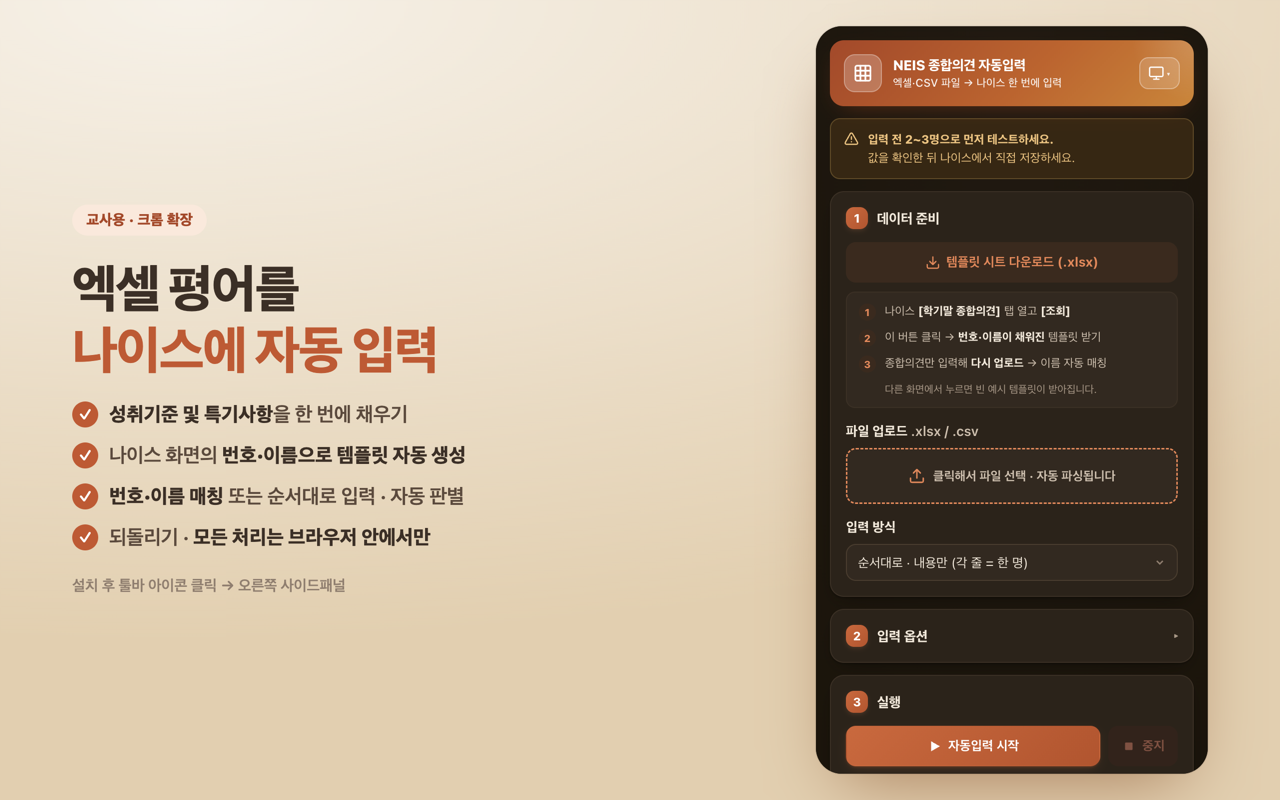
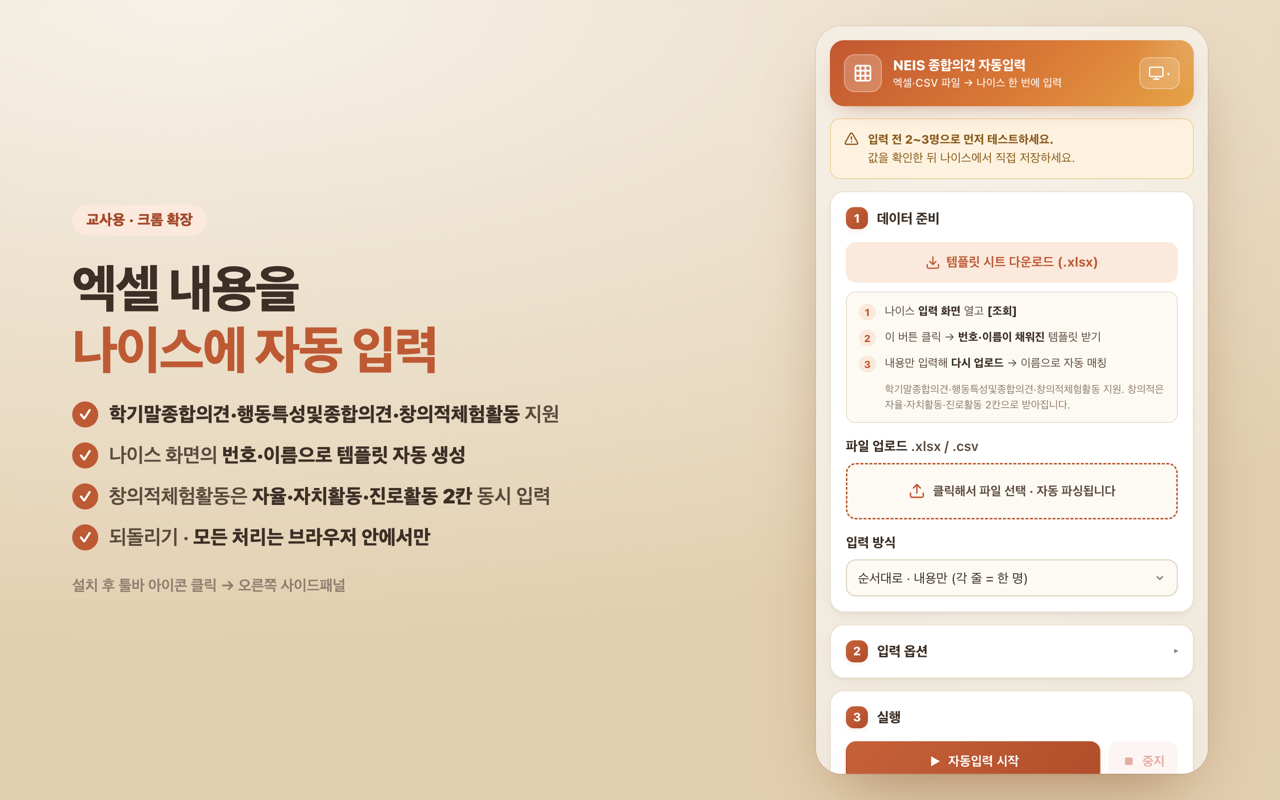
docs: 설명 전면 갱신(지원 화면 3종 명시) + 구글시트 제거 + 예시 스샷 라이트모드
- 지원 화면을 학기말종합의견·행동특성및종합의견·창의적체험활동(학생부자료기록)으로 명시
- '평어'→'내용'으로 일반화, '구글시트'·시트 붙여넣기 문구 전부 제거(엑셀·CSV 파일 업로드)
- 앱 내 안내·매니페스트·스토어 설명·README·개인정보처리방침 일괄 수정
- 스토어 스크린샷/타일을 라이트 모드로 재생성

diff --git a/store/promo-shot.html b/store/promo-shot.html
@@ -22,7 +22,7 @@
         display:flex;align-items:center;justify-content:center;font-size:15px;margin-top:1px}
       .foot{margin-top:26px;font-size:15px;color:#8f7e6f;font-weight:600}
       .panelframe{
-        flex:0 0 392px;height:748px;border-radius:26px;overflow:hidden;background:#201911;
+        flex:0 0 392px;height:748px;border-radius:26px;overflow:hidden;background:#f6f1e8;
         box-shadow:0 30px 70px -24px rgba(120,60,20,.55), 0 0 0 1px rgba(0,0,0,.06);
       }
       .panelframe iframe{width:392px;height:1880px;border:0;transform:translateY(0)}
@@ -32,18 +32,26 @@
     <div class="shot">
       <div class="copy">
         <span class="badge">교사용 · 크롬 확장</span>
-        <h1>엑셀 평어를<br /><span class="hl">나이스에 자동 입력</span></h1>
+        <h1>엑셀 내용을<br /><span class="hl">나이스에 자동 입력</span></h1>
         <ul>
-          <li><span class="chk">✓</span><span><b>성취기준 및 특기사항</b>을 한 번에 채우기</span></li>
+          <li><span class="chk">✓</span><span><b>학기말종합의견·행동특성및종합의견·창의적체험활동</b> 지원</span></li>
           <li><span class="chk">✓</span><span>나이스 화면의 <b>번호·이름으로 템플릿 자동 생성</b></span></li>
-          <li><span class="chk">✓</span><span><b>번호·이름 매칭</b> 또는 순서대로 입력 · 자동 판별</span></li>
+          <li><span class="chk">✓</span><span>창의적체험활동은 <b>자율·자치활동·진로활동 2칸</b> 동시 입력</span></li>
           <li><span class="chk">✓</span><span>되돌리기 · <b>모든 처리는 브라우저 안에서만</b></span></li>
         </ul>
         <div class="foot">설치 후 툴바 아이콘 클릭 → 오른쪽 사이드패널</div>
       </div>
       <div class="panelframe">
-        <iframe src="../dist/neis-autofill/sidepanel.html" scrolling="no"></iframe>
+        <iframe id="pf" src="../dist/neis-autofill/sidepanel.html" scrolling="no"></iframe>
       </div>
     </div>
+    <script>
+      // 프로모션 이미지의 사이드패널을 항상 라이트 모드로 고정
+      document.getElementById("pf").addEventListener("load", function () {
+        try {
+          this.contentDocument.documentElement.setAttribute("data-theme", "light");
+        } catch (e) {}
+      });
+    </script>
   </body>
 </html>

diff --git a/neis-autofill/privacy.html b/neis-autofill/privacy.html
@@ -39,14 +39,14 @@
       <p class="meta">NEIS 종합의견 자동입력 도우미 · 시행일 2026-07-07</p>
 
       <p>
-        본 확장 프로그램은 교사가 엑셀·CSV·구글시트에 작성한 학생 평어(성취기준 및 특기사항,
-        종합의견 등)를 나이스(NEIS) 입력 화면에 자동으로 채워 넣는 도구입니다.
+        본 확장 프로그램은 교사가 엑셀·CSV 파일에 작성한 내용을 나이스(NEIS)의 학기말종합의견·
+        행동특성및종합의견·창의적체험활동 입력 화면에 자동으로 채워 넣는 도구입니다.
       </p>
 
       <h2>1. 수집·전송하는 개인정보 — 없음</h2>
       <p>
         확장은 어떠한 개인정보도 <b>수집·저장·외부 전송하지 않습니다.</b> 사용자가 붙여넣거나
-        업로드한 평어, 나이스 화면에서 읽은 번호·이름은 <b>오직 사용자의 브라우저 안에서만</b>
+        업로드한 내용, 나이스 화면에서 읽은 번호·이름은 <b>오직 사용자의 브라우저 안에서만</b>
         자동입력 매칭 목적에 한해 일시적으로 사용된 뒤 사라지며, 개발자나 제3자에게 전송되지
         않습니다.
       </p>
@@ -54,7 +54,7 @@
       <h2>2. 데이터 저장</h2>
       <p>
         로컬에 저장하는 유일한 값은 <b>화면 테마 설정</b>이며 브라우저의 <code>localStorage</code>에만
-        보관됩니다. 학생 정보·평어 내용은 저장하지 않습니다.
+        보관됩니다. 학생 정보·입력 내용은 저장하지 않습니다.
       </p>
 
       <h2>3. 권한 사용 목적</h2>

diff --git a/neis-autofill/sidepanel.html b/neis-autofill/sidepanel.html
@@ -43,10 +43,10 @@
         템플릿 시트 다운로드 (.xlsx)
       </button>
       <ol class="steps">
-        <li><span class="n">1</span><span>나이스 <b>[학기말 종합의견]</b> 탭 열고 <b>[조회]</b></span></li>
+        <li><span class="n">1</span><span>나이스 <b>입력 화면</b> 열고 <b>[조회]</b></span></li>
         <li><span class="n">2</span><span>이 버튼 클릭 → <b>번호·이름이 채워진</b> 템플릿 받기</span></li>
-        <li><span class="n">3</span><span>종합의견만 입력해 <b>다시 업로드</b> → 이름 자동 매칭</span></li>
-        <li class="steps-foot">다른 화면에서 누르면 빈 예시 템플릿이 받아집니다.</li>
+        <li><span class="n">3</span><span>내용만 입력해 <b>다시 업로드</b> → 이름으로 자동 매칭</span></li>
+        <li class="steps-foot">학기말종합의견·행동특성및종합의견·창의적체험활동 지원. 창의적은 자율·자치활동·진로활동 2칸으로 받아집니다.</li>
       </ol>
 
       <label class="field-label">파일 업로드 <span class="muted">.xlsx / .csv</span></label>
@@ -136,7 +136,7 @@
     <section class="card">
       <div class="card-title-sm">미리보기</div>
       <div id="preview" class="preview">
-        <p class="empty">데이터를 붙여넣거나 업로드하세요.</p>
+        <p class="empty">엑셀·CSV 파일을 업로드하세요.</p>
       </div>
     </section>
 

diff --git a/store/PRIVACY.html b/store/PRIVACY.html
@@ -16,15 +16,15 @@
     <p class="muted">확장 프로그램: <b>NEIS 종합의견 자동입력 도우미</b> · 시행일: 2026-07-07</p>
 
     <p>
-      본 확장 프로그램(이하 "확장")은 교사가 엑셀·CSV·구글시트에 작성한 학생 평어(성취기준 및
-      특기사항, 종합의견 등)를 나이스(NEIS) 입력 화면에 자동으로 채워 넣는 도구입니다.
+      본 확장 프로그램(이하 "확장")은 교사가 엑셀·CSV 파일에 작성한 내용을 나이스(NEIS)의
+      학기말종합의견·행동특성및종합의견·창의적체험활동 입력 화면에 자동으로 채워 넣는 도구입니다.
       아래와 같이 개인정보를 처리합니다.
     </p>
 
     <h2>1. 수집·전송하는 개인정보 — 없음</h2>
     <p>
       확장은 어떠한 개인정보도 <b>수집·저장·외부 전송하지 않습니다.</b> 사용자가 붙여넣거나
-      업로드한 평어, 그리고 나이스 화면에서 읽은 학생 번호·이름은 <b>오직 사용자의 브라우저
+      업로드한 내용, 그리고 나이스 화면에서 읽은 학생 번호·이름은 <b>오직 사용자의 브라우저
       안에서만</b> 처리되며, 자동입력을 위한 매칭 목적에 한해 일시적으로 메모리에서 사용된
       뒤 사라집니다. 개발자나 제3자에게 전송되지 않습니다.
     </p>

diff --git a/store/promo-tile-440.html b/store/promo-tile-440.html
@@ -22,7 +22,7 @@
     <div class="tile">
       <span class="badge">교사용 · 크롬 확장</span>
       <h1>NEIS 종합의견<br />자동입력 도우미</h1>
-      <p>엑셀 평어를 나이스에 한 번에 채우기</p>
+      <p>엑셀 내용을 나이스에 한 번에 채우기</p>
       <div class="ico">
         <svg viewBox="0 0 24 24"><rect x="3" y="3" width="18" height="18" rx="2"/><path d="M3 9h18M3 15h18M9 3v18M15 3v18"/></svg>
       </div>

diff --git a/neis-autofill/README.md b/neis-autofill/README.md
@@ -1,15 +1,23 @@
 # NEIS 종합의견 자동입력 도우미 (크롬 확장프로그램)
 
-엑셀·구글시트에서 복사한 **학기말 종합의견 / 과세특 / 행발** 등을
-나이스(NEIS)에 **순서·번호·이름** 매칭으로 자동 입력해 주는 크롬 확장프로그램입니다.
+엑셀·CSV 파일에 정리한 내용을 나이스(NEIS)의 **학기말종합의견 · 행동특성및종합의견 ·
+창의적체험활동(학생부자료기록)** 화면에 **번호·이름** 매칭(또는 순서대로)으로 자동 입력해 주는
+크롬 확장프로그램입니다.
 
-기존 도구와의 차이:
+지원 화면:
 
-- 별도 웹앱/윈도우 exe 없이 **크롬 확장만으로** 동작 (맥·크롬북 포함)
-- **템플릿 시트 제공** + 채운 파일(.xlsx/.csv) **업로드** → 자동 파싱
-- 엑셀/구글시트에서 **바로 붙여넣기**도 지원
+- **학기말종합의견**
+- **행동특성및종합의견**
+- **창의적체험활동(학생부자료기록)** — 자율·자치활동 동아리활동 + 진로활동 **2칸 동시 입력**
+
+주요 기능:
+
+- 별도 웹앱/exe 없이 **크롬 확장만으로** 동작
+- **템플릿 자동 생성** — 대상 화면 [조회] 후 다운로드하면 그 반 번호·이름이 채워지고, 화면에 맞는
+  열 제목으로 나옵니다(창의적은 자율·자치활동·진로활동 2칸)
+- 채운 파일(.xlsx/.csv) **업로드**로 간편 입력
 - **번호 / 이름** 매칭 또는 **순서대로** 입력(업로드 시 자동 판별)
-- **이어쓰기**: 기존 평어 뒤에 한 칸 띄우고(또는 줄바꿈) 다른 평어 추가 — 덮어쓰지 않음
+- **이어쓰기**: 기존 내용 뒤에 한 칸 띄우고(또는 줄바꿈) 추가 — 덮어쓰지 않음
 - 나이스 4세대(eXBuilder6) 그리드에 **API로 직접 입력**(가상스크롤 무관), 컬럼 자동 감지
 - **되돌리기**, 입력 전 **미리보기·필드 스캔** 지원
 
@@ -28,20 +36,14 @@
 
 ## 사용법
 
-1. **연습**: 먼저 `test/roster.html` 을 크롬으로 열어 연습하세요.
-2. 데이터 준비 — 아래 둘 중 하나:
-   - **(권장) 템플릿 방식**: 사이드패널의 **📄 템플릿 시트 다운로드** 클릭 → `번호/이름/학기말 종합의견`
-     열을 채워 저장 → **파일 업로드**에 올리면 열 구성을 보고 입력 방식이 **자동 설정**됩니다.
-     (구글시트는 파일>다운로드>.xlsx 또는 .csv 로 받아 업로드)
-     > 💡 나이스에서 **[학기말 종합의견] 탭을 열고 [조회] 버튼을 누른 상태로** 템플릿을 다운로드하면, 그 화면의
-     > **번호·이름이 템플릿에 미리 채워져** 내려받아집니다(전입/전출 괄호 표시는 빼고 이름만,
-     > 결번은 결번대로 유지). 종합의견 칸만 채워 다시 올리면 이름으로 정확히 매칭됩니다.
-   - **붙여넣기 방식**: 엑셀/구글시트에서 복사해 붙여넣기. 형식 예:
-     `순서대로(내용만)`, `번호[탭]내용`, `이름[탭]내용`, `번호[탭]이름[탭]내용`
-3. **① 미리보기** 로 파싱·바이트 확인
-4. 나이스(또는 테스트) 종합의견 화면을 띄운 뒤 **② 필드 스캔** 으로 입력칸이 잡히는지 확인
-5. (순서 방식이면) **첫 학생 입력칸을 클릭**한 뒤 **③ 자동입력 시작**
-6. 값 확인 후 나이스에서 저장. 잘못되면 **되돌리기**
+1. 나이스에서 대상 화면(**학기말종합의견 / 행동특성및종합의견 / 창의적체험활동**)을 열고 **[조회]**.
+2. 사이드패널의 **템플릿 시트 다운로드** 클릭 → 그 반의 **번호·이름이 채워진** .xlsx가 받아집니다.
+   화면에 맞는 열 제목으로 나오며, 창의적체험활동은 **자율·자치활동·진로활동 2칸** 템플릿입니다.
+   (전입/전출 괄호 표시는 빼고 이름만, 결번은 결번대로 유지)
+3. **내용 열만** 채워 저장 → **파일 업로드**에 올리면 입력 방식이 **자동 설정**됩니다.
+4. **① 미리보기** 로 파싱 확인.
+5. **② 필드 스캔** 으로 입력칸(컬럼)이 잡히는지 확인.
+6. **③ 자동입력 시작** → 값 확인 후 나이스에서 **[저장]**. 잘못되면 **되돌리기**.
 
 ## 매칭 방식 선택 가이드
 
@@ -73,7 +75,7 @@
 neis-autofill/
 ├─ manifest.json      확장 설정 (MV3)
 ├─ background.js      사이드패널 열기
-├─ sidepanel.html/css/js   붙여넣기·파싱·실행 UI
+├─ sidepanel.html/css/js   파일 업로드·파싱·실행 UI
 ├─ content.js        나이스 페이지에서 필드 탐지·값 주입·되돌리기
 ├─ content.css
 ├─ lib/xlsx.full.min.js   엑셀 파싱 라이브러리(SheetJS, 로컬 동봉)

diff --git a/store/STORE_LISTING.md b/store/STORE_LISTING.md
@@ -17,26 +17,32 @@
 
 ## 2. 짧은 설명 (요약, 132자 이내)
 
-> 엑셀·구글시트에서 복사한 학기말 종합의견/세특/행발을 나이스(NEIS)에 이름·번호·순서로 자동 입력합니다.
+> 엑셀·CSV 파일의 내용을 나이스 학기말종합의견·행동특성및종합의견·창의적체험활동 화면에 번호·이름으로 자동 입력합니다.
 
 ## 3. 단일 목적 서술 (Single Purpose — 심사 필수)
 
-> 이 확장의 유일한 목적은, 교사가 엑셀·CSV·구글시트에 미리 작성한 학생 평어(종합의견·세특·행발 등)를
-> 나이스(NEIS) 입력 화면의 해당 학생 칸에 자동으로 채워 넣어, 반복적인 복사·붙여넣기 수작업을 줄이는 것입니다.
+> 이 확장의 유일한 목적은, 교사가 엑셀·CSV 파일에 미리 작성한 내용을 나이스(NEIS)의
+> 학기말종합의견·행동특성및종합의견·창의적체험활동 입력 화면의 해당 학생 칸에 자동으로 채워 넣어,
+> 반복적인 복사·붙여넣기 수작업을 줄이는 것입니다.
 
 ## 4. 상세 설명 (스토어 게시용)
 
 ```
-엑셀·구글시트에 정리한 학기말 종합의견·세부능력 및 특기사항(세특)·행동특성 및 종합의견(행발)을
-나이스(NEIS)에 한 번에 자동 입력하는 교사용 도구입니다. 별도 프로그램 설치 없이 크롬 확장만으로
-동작하며, 크롬만 있으면 어디서나 사용할 수 있습니다.
+엑셀·CSV 파일에 정리한 내용을 나이스(NEIS) 학생부 입력 화면에 한 번에 자동으로 채워 넣는
+교사용 도구입니다. 별도 프로그램 설치 없이 크롬 확장만으로 동작합니다.
+
+■ 지원 화면
+· 학기말종합의견
+· 행동특성및종합의견
+· 창의적체험활동(학생부자료기록) — 자율·자치활동 동아리활동 + 진로활동 2칸 동시 입력
 
 ■ 주요 기능
-· 템플릿 다운로드 — 나이스 [학기말 종합의견] 화면에서 [조회] 후 받으면 그 반의
-  번호·이름이 자동으로 채워집니다. 종합의견만 입력해 다시 올리면 됩니다.
-· 엑셀·CSV 파일 업로드 또는 엑셀·구글시트에서 바로 붙여넣기
-· 번호·이름 매칭 또는 순서대로 자동 입력
-· 이어쓰기 — 기존 평어를 덮지 않고 뒤에 이어서 추가
+· 템플릿 자동 생성 — 나이스 대상 화면에서 [조회] 후 이 버튼을 누르면 그 반의
+  번호·이름이 채워진 템플릿이 내려받아집니다. 내용만 입력해 다시 올리면 됩니다.
+  (창의적체험활동은 자율·자치활동·진로활동 2칸 템플릿으로 받아집니다.)
+· 엑셀·CSV 파일 업로드로 간편 입력
+· 번호·이름 매칭 또는 순서대로 자동 입력 (업로드 시 자동 판별)
+· 이어쓰기 — 기존 내용을 덮지 않고 뒤에 이어서 추가
 · 입력 전 미리보기, 입력 후 되돌리기
 
 ■ 개인정보 보호

diff --git a/README.md b/README.md
@@ -1,7 +1,7 @@
 # NEIS 종합의견 자동입력 도우미
 
-엑셀·구글시트에 정리한 학생 평어(성취기준 및 특기사항, 종합의견 등)를 나이스(NEIS)에
-자동으로 채워 넣는 **크롬 확장 프로그램**입니다.
+엑셀·CSV 파일에 정리한 내용을 나이스(NEIS)의 **학기말종합의견·행동특성및종합의견·창의적체험활동**
+화면에 번호·이름으로 자동 입력하는 **크롬 확장 프로그램**입니다.
 
 ## 저장소 구성
 